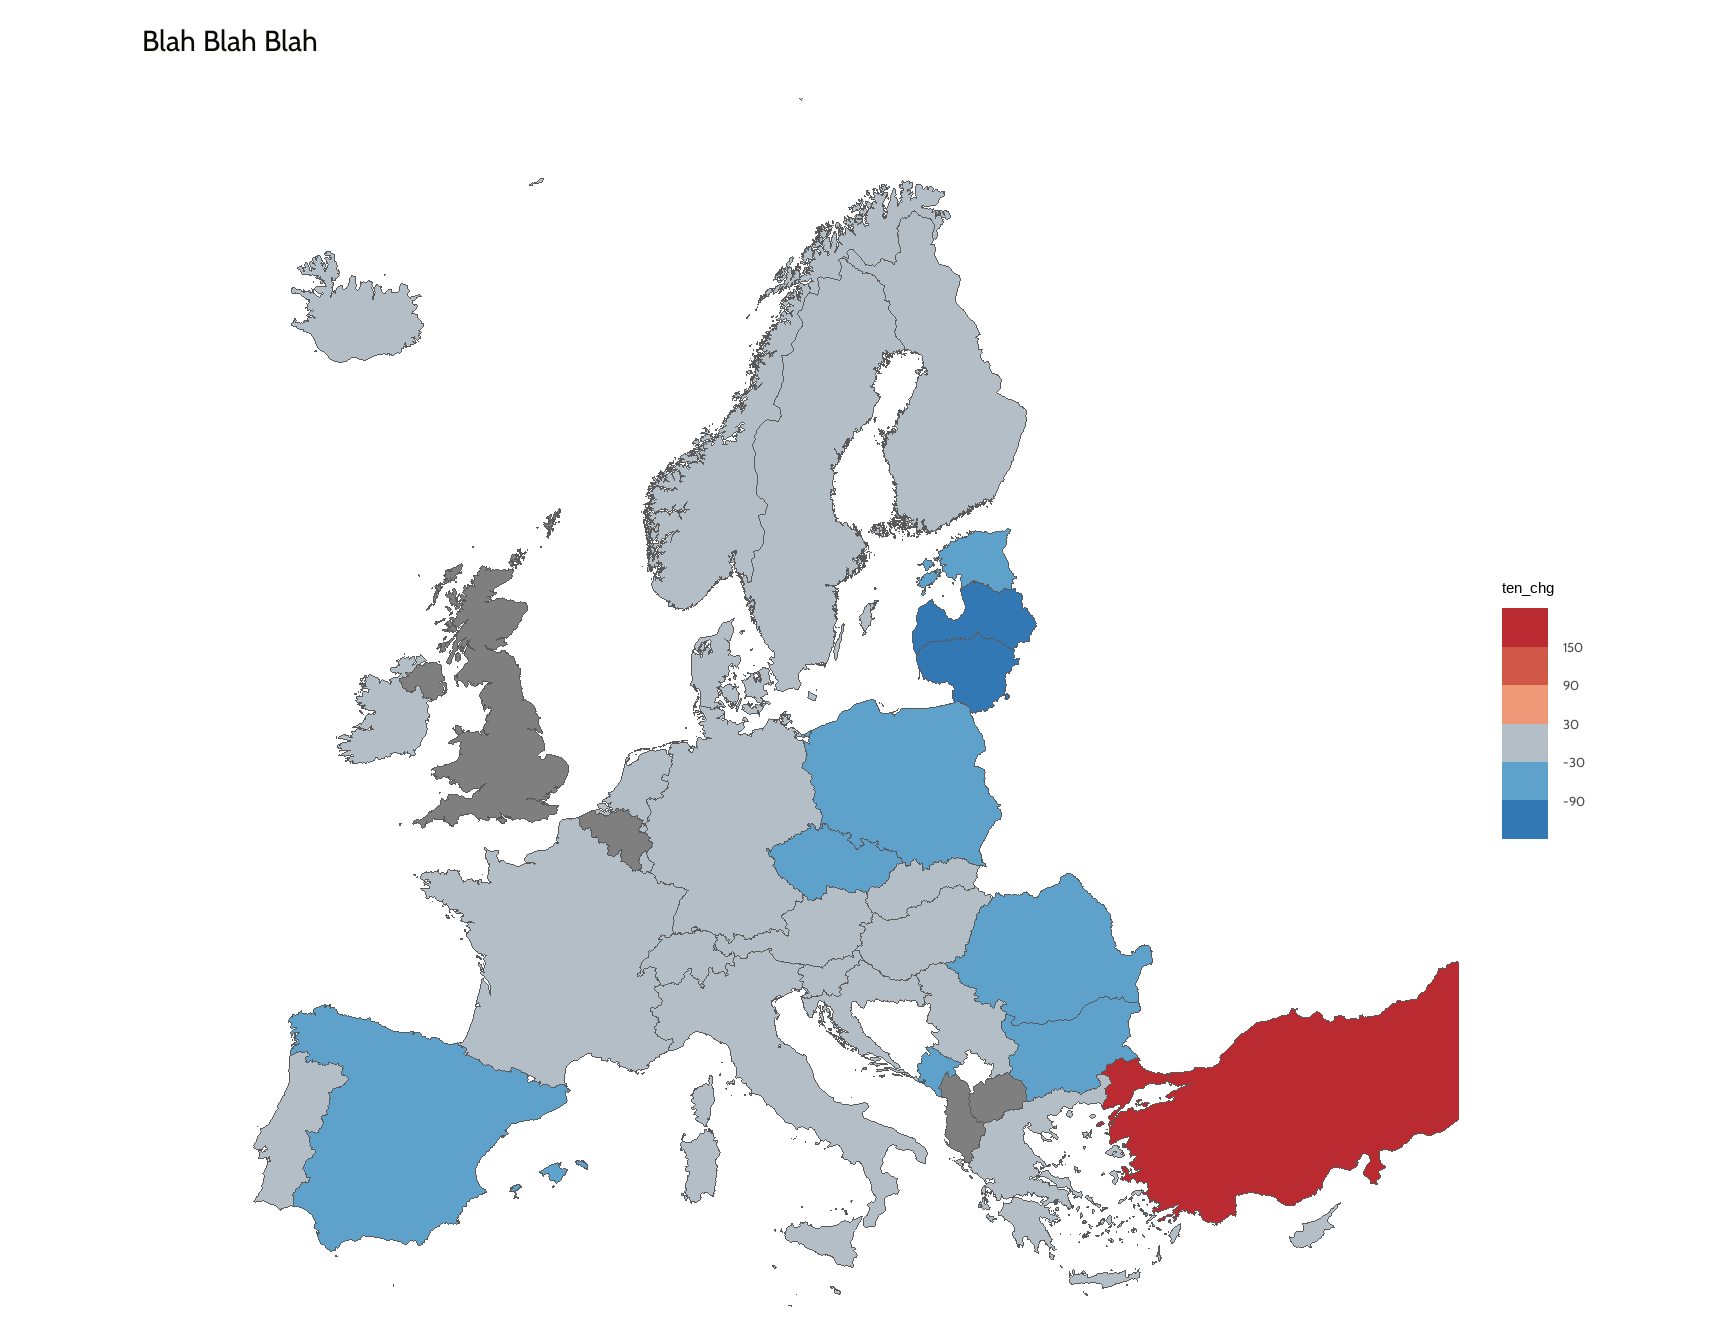
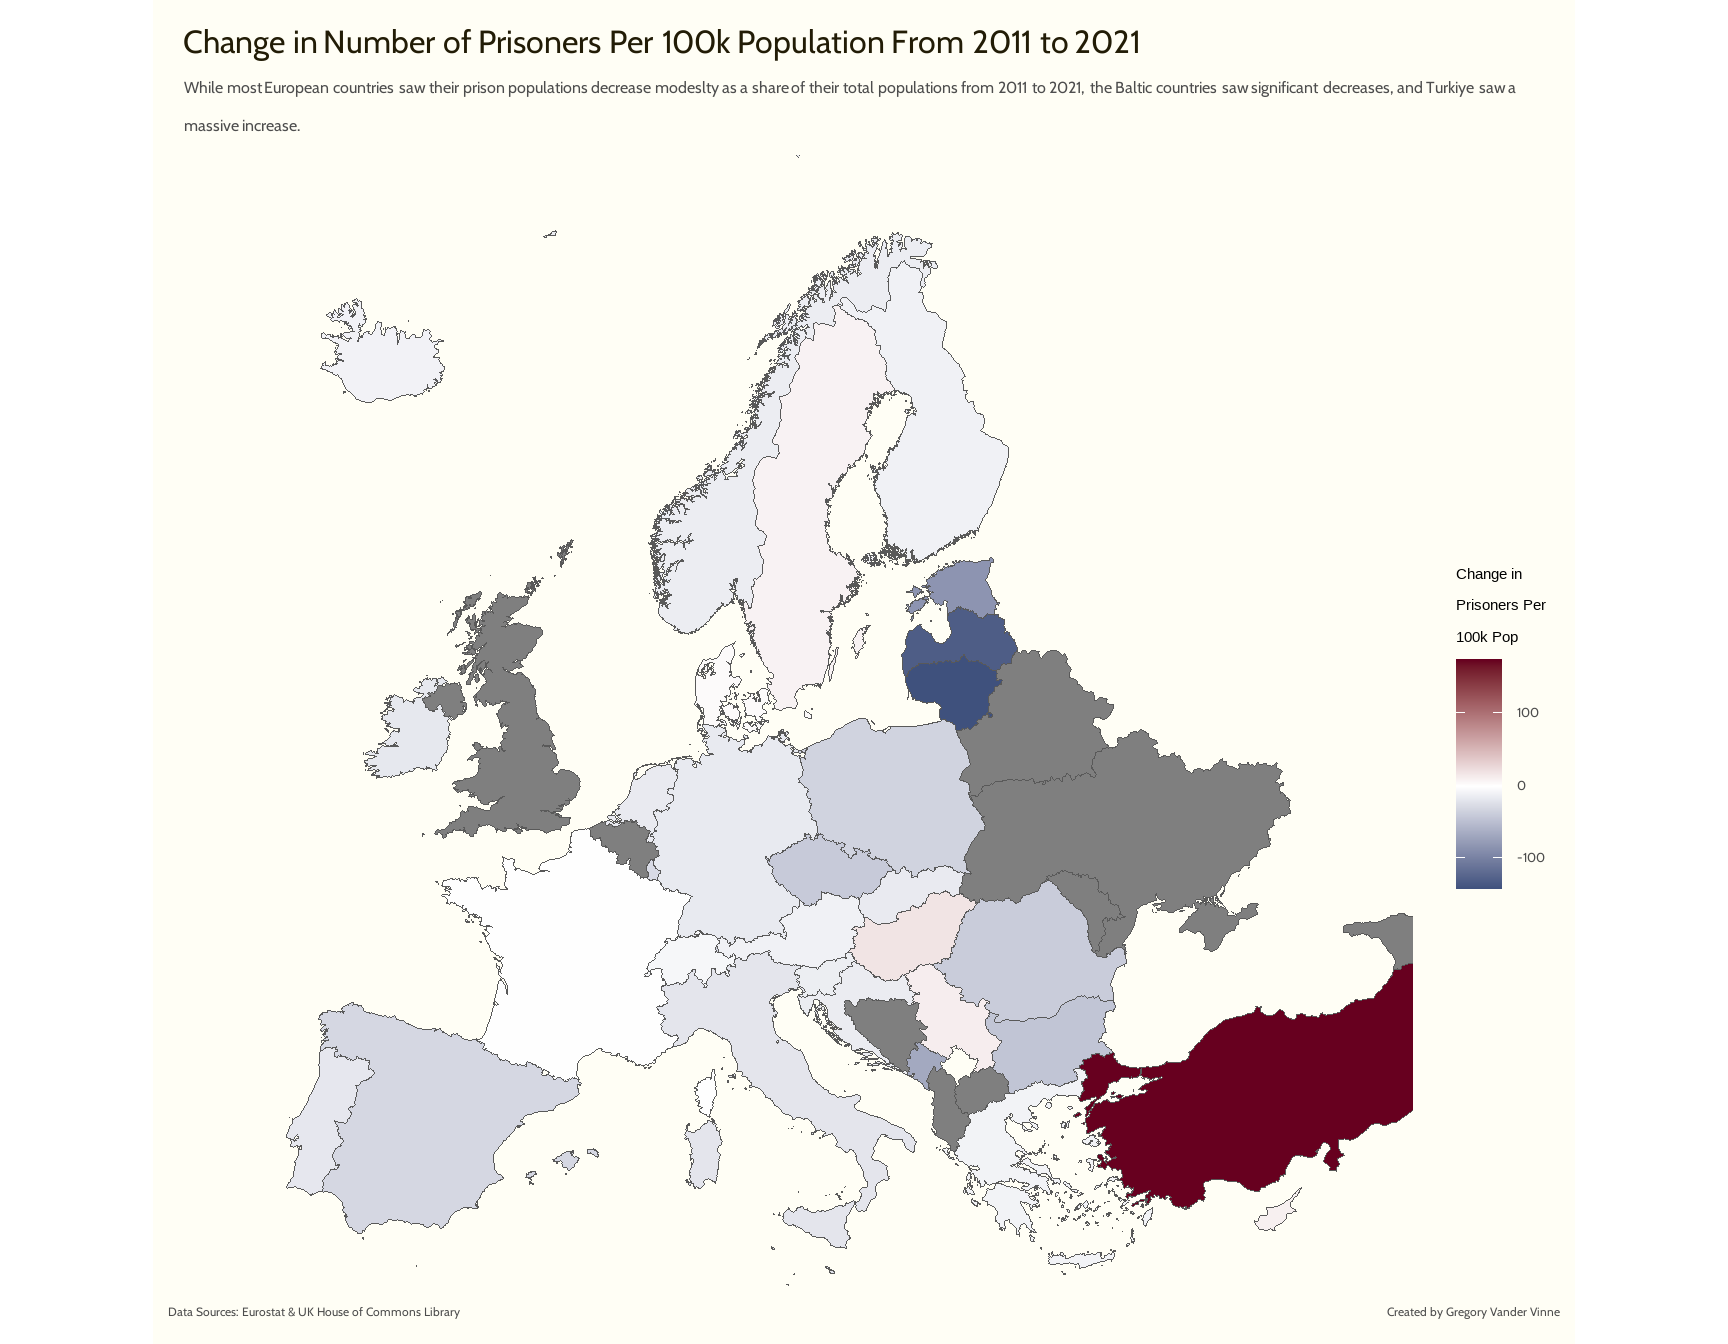
Colors etc

diff --git a/_site/Euro_Prisoners.html b/_site/Euro_Prisoners.html
@@ -11,7 +11,7 @@
 
 <meta name="author" content="Gregory Vander Vinne" />
 
-<meta name="date" content="2024-01-04" />
+<meta name="date" content="2024-01-06" />
 
 <title>Exploring European Prisoner Populations</title>
 
@@ -295,13 +295,60 @@ $(document).ready(function () {
 <h1 class="title toc-ignore">Exploring European Prisoner
 Populations</h1>
 <h4 class="author">Gregory Vander Vinne</h4>
-<h4 class="date">2024-01-04</h4>
+<h4 class="date">2024-01-06</h4>
 
 </div>
 
 
-<p><img src="Euro_Prisoners_files/figure-html/Map%20Setup-1.png" width="864" /></p>
+<p><img src="Euro_Prisoners_files/figure-html/Plotting%20Setup-1.png" width="864" /></p>
 <p><img src="Euro_Prisoners_files/figure-html/Plot%20Map-1.png" width="864" /></p>
+<p><img src="Euro_Prisoners_files/figure-html/Slope%20Graph-1.png" width="864" /></p>
+<!-- ```{r Animated Map} -->
+<!-- longData <- myData %>% pivot_longer(cols = c(as.character(2008:2021)), -->
+<!--                              names_to = "Year", -->
+<!--                              values_to = "Value") %>% -->
+<!--   mutate(Year = as.integer(Year)) -->
+<!-- p <- ggplot(longData) + -->
+<!--   geom_sf(aes(fill = Value)) + -->
+<!--   coord_sf( -->
+<!--       crs = crsLAEA, -->
+<!--       xlim = c(bbox["xmin"], bbox["xmax"]), -->
+<!--       ylim = c(bbox["ymin"], bbox["ymax"]) -->
+<!--   ) + -->
+<!--   labs(title = 'Year: {frame_time}') + -->
+<!--   transition_time(Year) + -->
+<!--   ease_aes('linear')+ -->
+<!--   theme_minimal() + -->
+<!--     theme( -->
+<!--       plot.background = element_rect(fill  = back_color, color = back_color), -->
+<!--       panel.background = element_rect(fill  = back_color, color = back_color), -->
+<!--       panel.grid = element_blank(), -->
+<!--       axis.ticks = element_blank(), -->
+<!--       plot.title.position = "plot", -->
+<!--       plot.caption.position = "plot", -->
+<!--       plot.title = ggtext::element_textbox_simple(color = dark_text, -->
+<!--                                 # family = "Cabin", -->
+<!--                                 size = 22, -->
+<!--                                 margin = margin(6, 6, 15, 6) -->
+<!--                                 ), -->
+<!--       plot.subtitle = ggtext::element_textbox_simple(color = light_text, -->
+<!--                                                     # family = "Cabin", -->
+<!--                                                     size = 12, -->
+<!--                                                     margin = margin(0,6,15,6)), -->
+<!--       axis.title = element_blank(), -->
+<!--       axis.text = element_blank(), -->
+<!--       plot.caption = element_text(color = light_text, -->
+<!--                                   # family = "Cabin", -->
+<!--                                   size = 9, -->
+<!--                                   margin = margin(0,6,4,6), -->
+<!--                                   hjust = c(0,1)), #One in bottom-left, one in bottom-right -->
+<!--       legend.text = element_text(color = light_text, -->
+<!--                                  # family = "Cabin", -->
+<!--                                  size = 10, -->
+<!--                                  margin = margin(0,0,4,0)), -->
+<!--     ) -->
+<!-- p -->
+<!-- ``` -->
 
 
 
